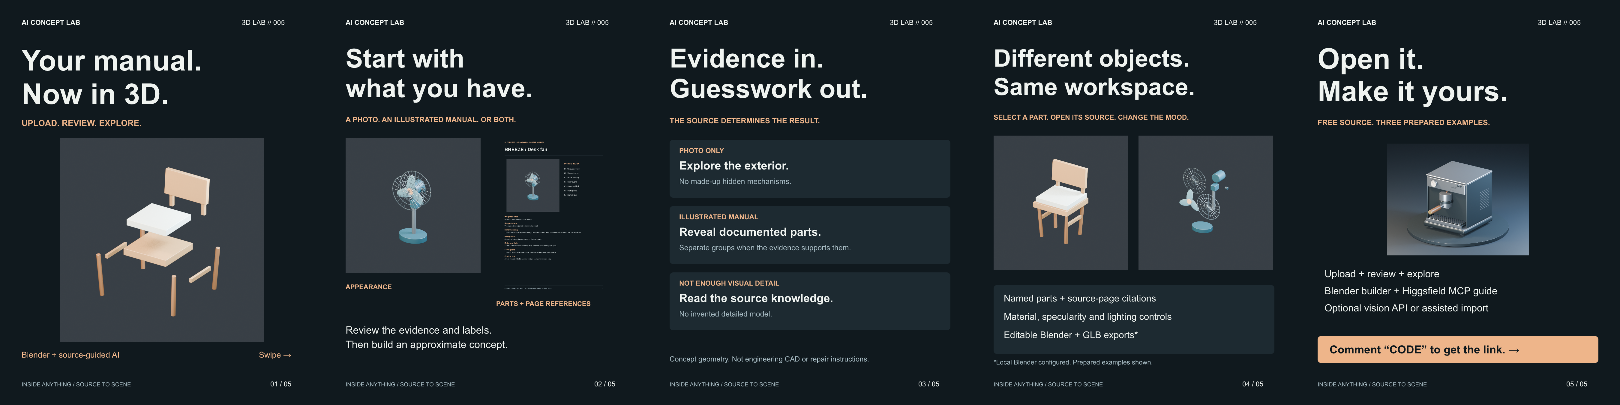
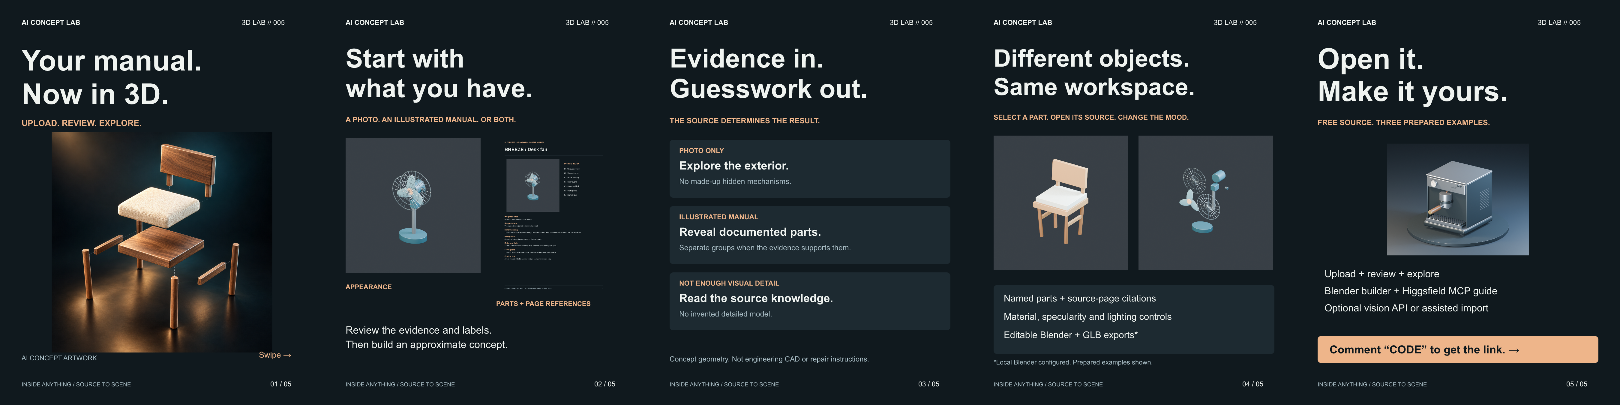
Refresh Instagram cover with cinematic walnut concept artwork

Changed region(s): [[0.0, 0.3259, 0.1852, 0.8889]]

diff --git a/marketing/cover-art-direction.md b/marketing/cover-art-direction.md
@@ -1,0 +1,7 @@
+# Cover art direction
+
+Created with the built-in image-generation tool, using `public/samples/chair/exploded.png` as the edit reference. The generated asset is `cover-hero-walnut.png`; the editable carousel layout in `render.mjs` places it at the original 1080 × 1350 format and adds the concept-art label. Actual application models and other slide renders are unchanged.
+
+## Generation prompt
+
+Use case: ads-marketing, editorial product hero. Edit the supplied exploded-chair image into an exceptionally beautiful premium product-visualization photograph, preserving the recognizable chair design and exploded assembly concept. This will be the HERO ART inserted into an existing AI Concept Lab Instagram cover, so generate ONLY the artwork, NO text, NO lettering, NO logos, NO border. Square composition. Preserve the nine semantic chair components: one rectangular wooden backrest with its two short attached uprights, one ivory upholstered seat cushion, one wooden seat frame/base, four separate slender wooden legs, two wooden side rails. Clearly organized exploded arrangement, backrest at top, cushion below, seat frame below that, four legs and two rails fanning gently outward below, all geometrically coherent. Upgrade plain beige wood to deeply tactile satin American walnut with beautiful believable grain, warm brown highlights and bevelled edges. Cushion is luxurious warm ivory boucle with fine woven texture and rounded seam detail. Rich cinematic light: broad warm copper-gold softbox from upper left, restrained cool teal edge from rear right, delicate specular reflections, contact-aware soft shadows, physically plausible reflections. View three-quarter front slightly above, dramatic but readable, premium furniture advertising/Cinema4D-quality path-traced aesthetic. Background is a seamless extremely dark graphite-teal studio sweep near hex #10191e, gentle teal halo behind the object and a subtle warm pool/reflection below it, softly fading to dark edges. Tiny restrained technical exploded-view guide lines may subtly connect the assembly, but no busy annotations, no extra parts. Beautiful central composition fills 80 percent of square, every component comfortably inside frame, negative space around silhouette. Highly polished visual with depth, tactile materials, striking contrast and refined art direction; avoid flat diffuse lighting and avoid obvious rectangular grey backdrop. Make the image eye-catching enough for a premium design magazine cover while preserving the same simple chair. Output high-resolution square image.

diff --git a/marketing/README.md b/marketing/README.md
@@ -6,7 +6,7 @@ Use the five numbered PNGs in **instagram-inside-anything-4x5/**. Each is exactl
 
 Copy **caption-inside-anything.txt**. The final slide asks viewers to comment **CODE** to get the link. Existing `comment-dm-templates.md` contains manual response templates. Nothing is posted or messaged automatically.
 
-The chair/fan imagery is rendered from the included original Blender models. App screenshots show the actual running upload-based implementation. Prepared examples and approximate geometry are identified in the copy; they are not presented as proven automatic image reconstructions.
+The refreshed cover uses AI-enhanced editorial artwork based on the original chair, labelled AI CONCEPT ARTWORK. Its richer walnut grain and upholstery are promotional art, not a screenshot of the app or a claim of generated mesh fidelity. The other chair/fan imagery is rendered from the included original Blender models. App screenshots show the actual running upload-based implementation. Prepared examples and approximate geometry are identified in the copy; they are not presented as proven automatic image reconstructions.
 
 `npm run instagram` reproduces this carousel. Keep the full 4:5 frame on upload so the AI Concept Lab header remains visible.
 
